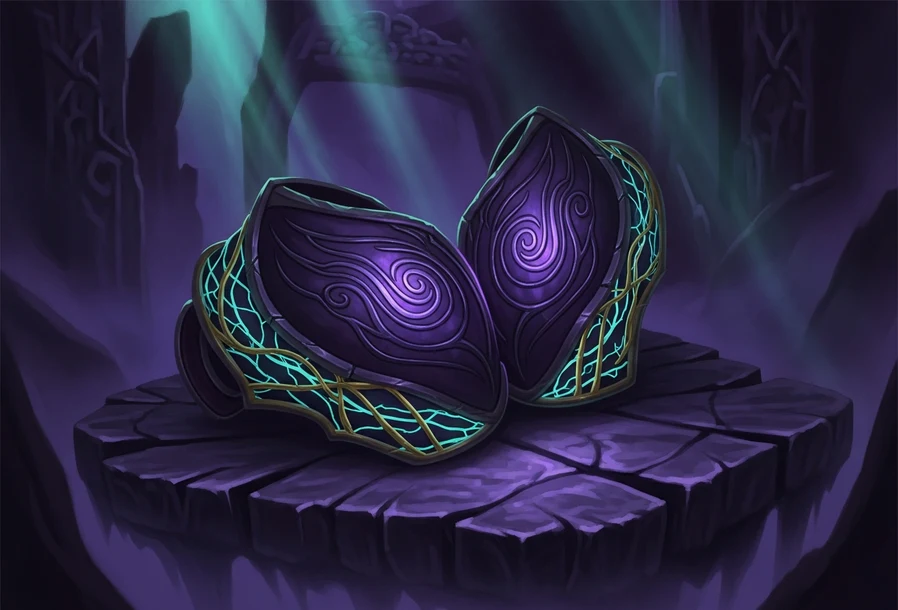
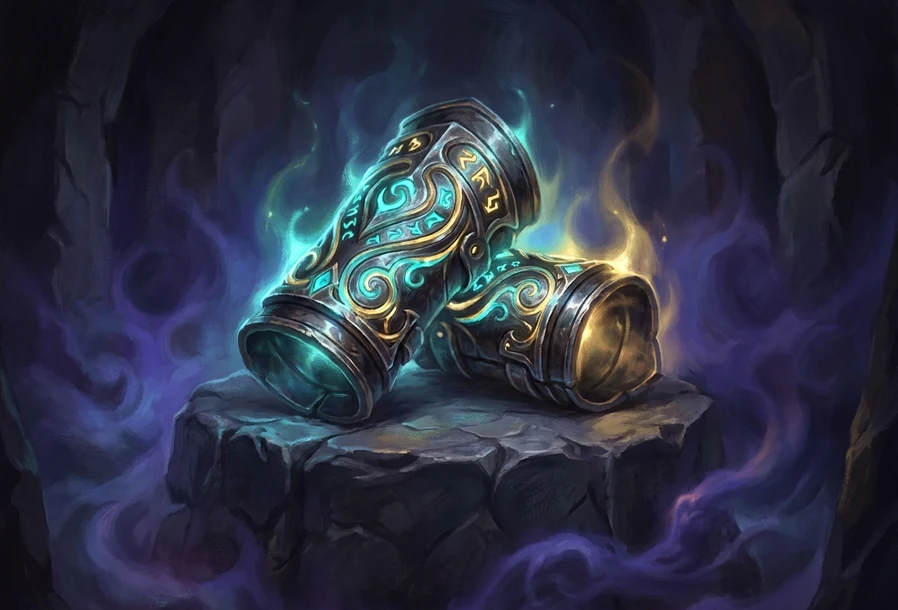
feat(kartendruck): Bilder über Gemini erzeugen, Schlüssel aus keys.env nutzen
Die Bilderzeugung läuft jetzt über gemini-3-pro-image-preview statt über
Imagen. Gemini hält sich merklich besser an die Vorgaben, allen voran "kein
Text im Bild": die neun Ausrüstungsbilder kamen alle im ersten Versuch durch
die Prüfung, bei Imagen brauchte es teils vier Anläufe.

Wichtiger noch: Die Schlüssel in keys.env wurden von keinem Skript gelesen. Die
Rotation in content.mjs zog nur GOOGLE_API_KEY* aus .env.local — von den drei
hinterlegten Schlüsseln war also genau einer in Gebrauch, und der auch nur,
weil er zufällig in beiden Dateien steht. generate-image.mjs sammelt jetzt aus
beiden Quellen, entfernt Dubletten und wechselt bei Kontingent- oder
Zugriffsfehlern zum nächsten Schlüssel. Damit stehen drei Tageskontingente statt
einem zur Verfügung.

Von den drei Schlüsseln kann einer kein Bildmodell ansprechen (404 auf das
Bildmodell); dafür gibt es zusätzlich einen Rückfall auf gemini-2.5-flash-image.

build-item-cards, build-char-cards und content.mjs nutzen alle dasselbe Modul.
Die neun Ausrüstungsbilder sind über Gemini neu erzeugt.

diff --git a/Kartendruck/README.md b/Kartendruck/README.md
@@ -77,7 +77,9 @@ Das zweite Bestellset — kein Helden-Deck, sondern das, was auf keinem Charakte
 
 **Die Ausrüstungskarten zeigen nur, was wirklich jemandem gehört.** Quelle ist `character_equipment` der aktiven Helden, nicht der `magic_items`-Katalog — ein Katalogeintrag, den niemand trägt, ergibt keine Karte für den Spieltisch. Der Besitzer steht als Kopfzeile auf jeder Karte. Larrys Klinge des Wassers fehlt bewusst: die hat als Epic Item schon eine eigene, ausführlichere Karte im ersten Set. Ladungen werden **nicht** gedruckt, nur „Verbrauchsgegenstand" — den Verbrauch führen die Spielenden selbst, eine gedruckte Zahl wäre ab der ersten Sitzung falsch.
 
-**Jedes erzeugte Artwork wird geprüft, bevor es auf eine Karte darf** (`check-art.mjs`, über Gemini). Verworfen wird bei falschem Motiv, sichtbarem Text und abgebildeten Menschen; dekorative Fantasy-Runen sind erwünscht und werden nicht als Text gewertet. Bis zu vier Versuche je Gegenstand. Der Filter ist kein Luxus: Imagen lieferte ein Porträtfoto statt eines Gürtels, den Prompt als Bildunterschrift und einmal ein wolfsähnliches Tier mit Sprechblase. **Der Bildprompt darf den Kartennamen nicht enthalten** — „Short Sword +1/-1" landete sonst als Schriftzug im Bild.
+**Die Bilder entstehen über Gemini** (`generate-image.mjs`, Modell `gemini-3-pro-image-preview`) — vorher lief das über Imagen. Gemini hält sich spürbar besser an die Vorgaben, vor allem an „kein Text im Bild": die neun Ausrüstungsbilder gingen alle im ersten Versuch durch die Prüfung, bei Imagen brauchte es teils vier Anläufe. Das Modul sammelt die Schlüssel aus **beiden** Quellen — `.env.local` und `keys.env` — und wechselt bei Kontingent- oder Zugriffsfehlern zum nächsten. Jeder Schlüssel aus einem eigenen Google-Projekt bringt ein eigenes Tageskontingent.
+
+**Jedes erzeugte Artwork wird geprüft, bevor es auf eine Karte darf** (`check-art.mjs`, ebenfalls über Gemini). Verworfen wird bei falschem Motiv, sichtbarem Text und abgebildeten Menschen; dekorative Fantasy-Runen sind erwünscht und werden nicht als Text gewertet. Bis zu vier Versuche je Gegenstand. Der Filter ist kein Luxus: Imagen lieferte ein Porträtfoto statt eines Gürtels, den Prompt als Bildunterschrift und einmal ein wolfsähnliches Tier mit Sprechblase. **Der Bildprompt darf den Kartennamen nicht enthalten** — „Short Sword +1/-1" landete sonst als Schriftzug im Bild.
 
 Die NPC-Karten (`node build-npc-cards.mjs --tarot70`) nutzen die Avatare aus dem Supabase-Storage — es wird kein Bild erzeugt, nur geladen und von oben zugeschnitten, damit die Gesichter sitzen. Die Ortsbadge ist nach Region eingefärbt (Berrybuck gold, die Burg rot, Finnigans Höhlen teal, Greifen blau, Archenbridge/Archendale violett), sodass sich der Stapel nach Orten sortieren lässt. Reicht der Platz für einen langen Text nicht, rückt die Schrift stufenweise enger (26 → 19 px), statt das Porträt auf einen Streifen zu quetschen.
 
